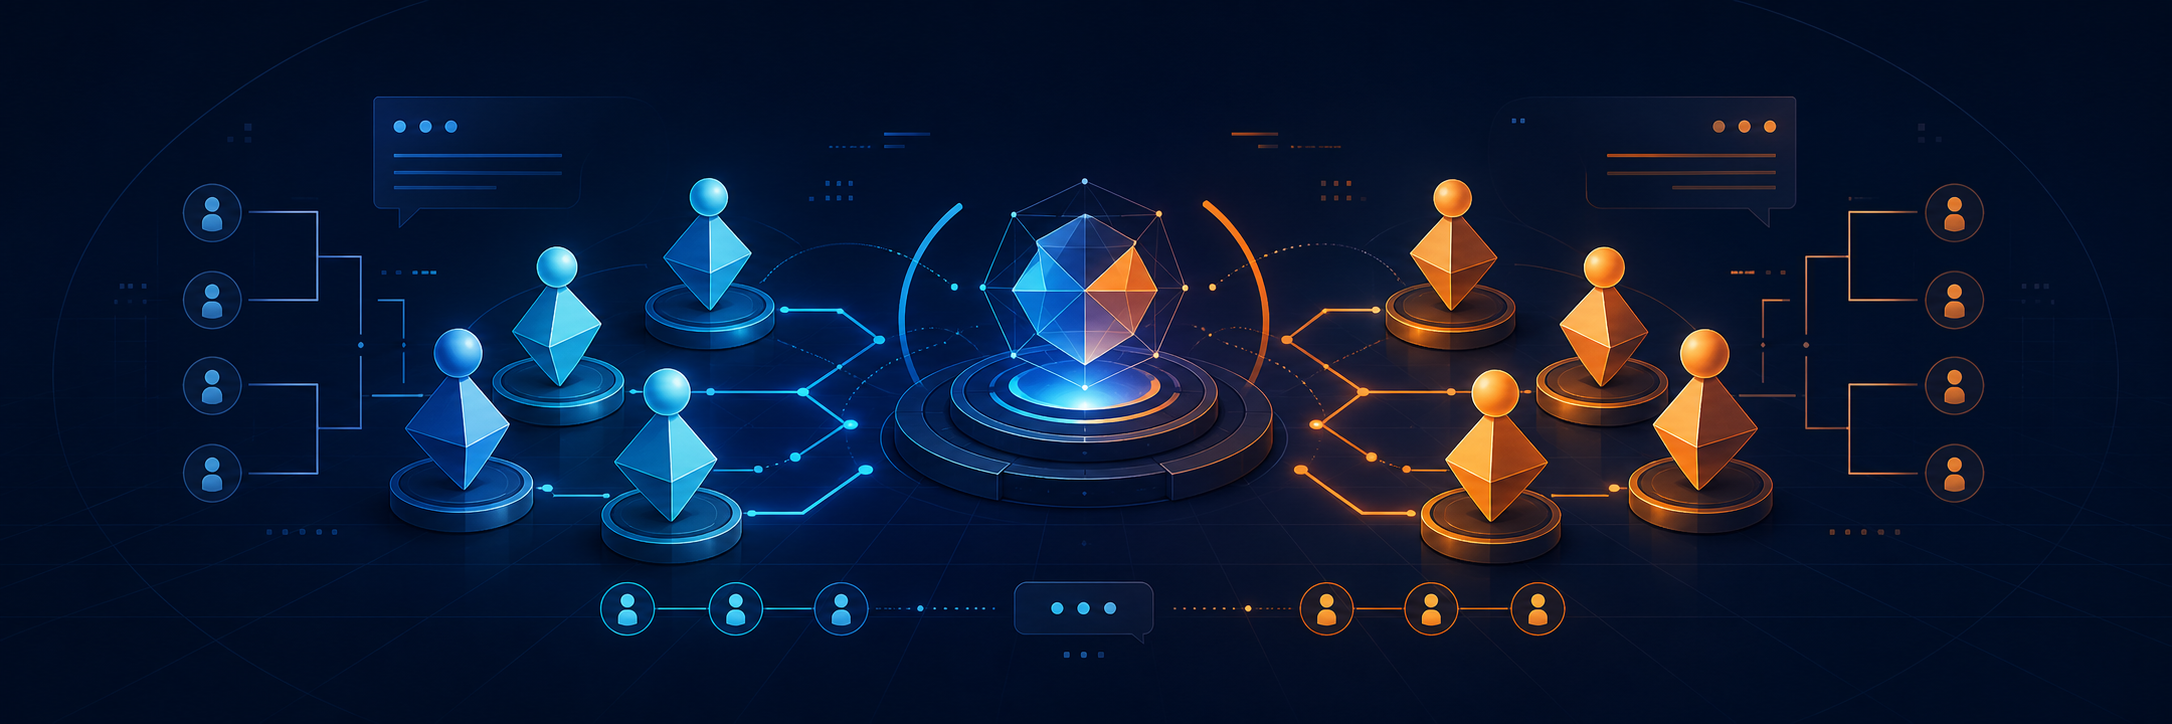
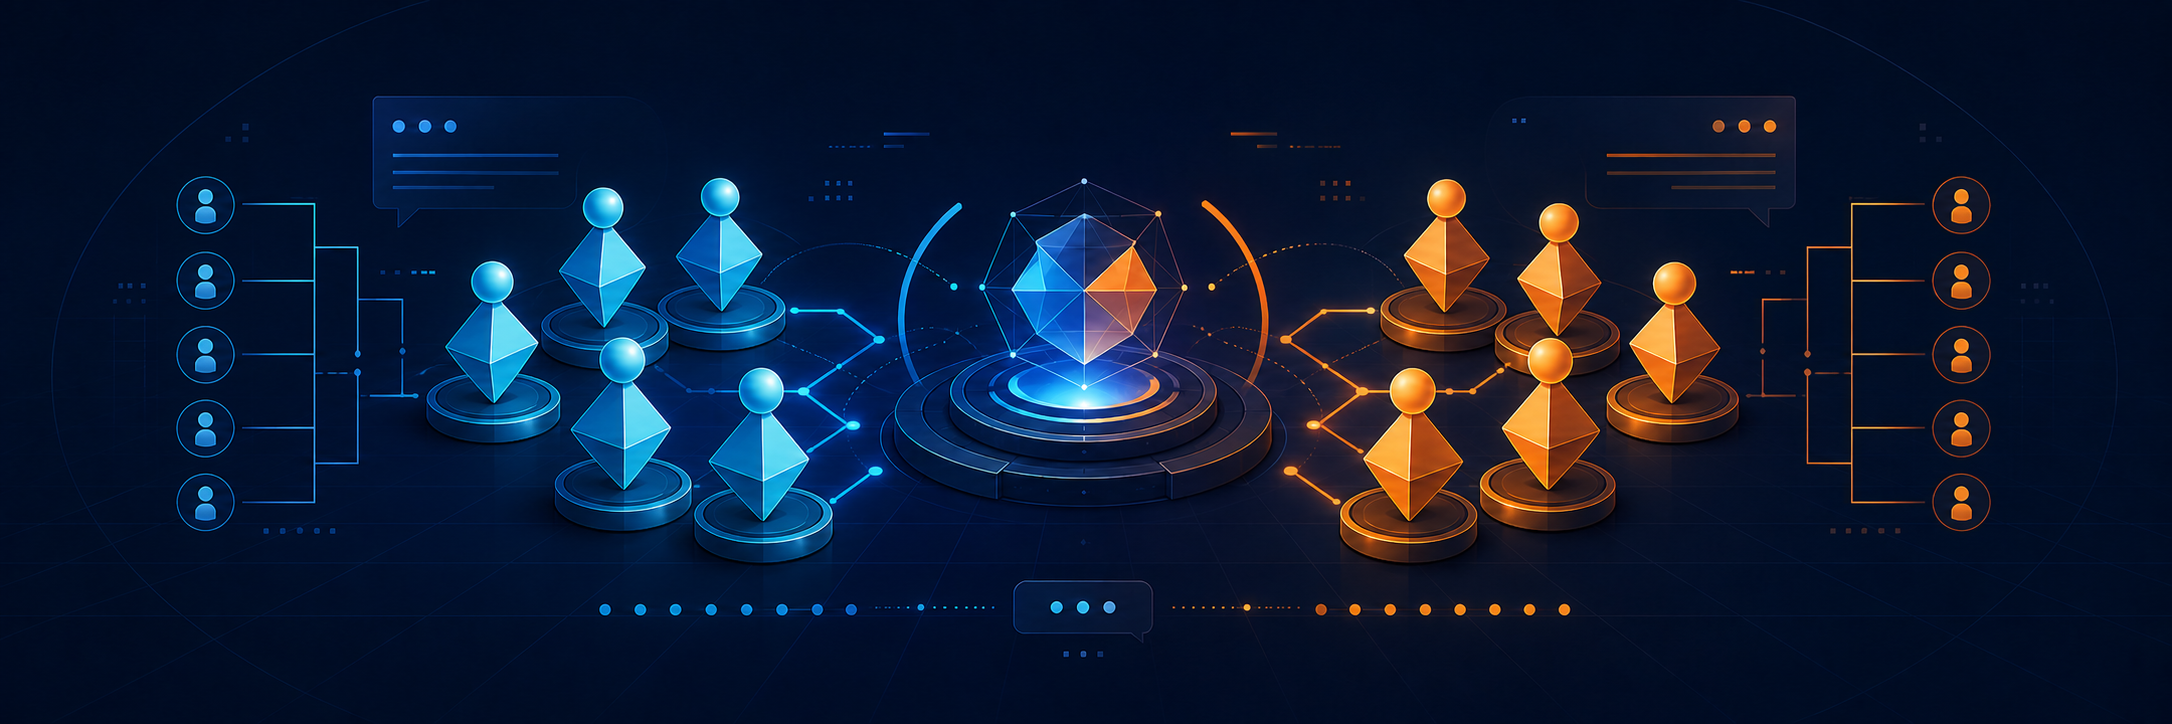
docs: refresh organization profile

diff --git a/profile/README.md b/profile/README.md
@@ -10,35 +10,35 @@
 </p>
 
 <p align="center">
-  <a href="https://github.com/Overwatch-KR/owkr-Internal-balance"><strong>OWKR Match</strong></a>
+  <a href="https://github.com/Overwatch-KR/owkr-Internal-balance"><strong>OWKR Balance</strong></a>
   &nbsp;·&nbsp;
-  <a href="https://github.com/Overwatch-KR/owkr-gather-bot"><strong>OWKR Gather Bot</strong></a>
+  <a href="https://github.com/Overwatch-KR/owkr-gather-bot"><strong>시간을달리는소녀</strong></a>
 </p>
 
 ## 플레이보다 복잡한 운영을 단순하게
 
-내전 하나를 열기 위해서는 참가자를 모으고, 티어를 확인하고, 팀을 나누고,
-대기자를 관리하고, 결과를 공유해야 합니다. OWKR는 이런 반복 작업을 줄여
+내전 하나를 열기 위해서는 참가자를 모으고, 티어를 확인하고, 팀을 나누고,<br />
+대기자를 관리하고, 결과를 공유해야 합니다. OWKR는 이런 반복 작업을 줄여<br />
 운영자는 사람과 경기에 더 집중할 수 있도록 돕습니다.
 
 ## Projects
 
-### <a href="https://github.com/Overwatch-KR/owkr-Internal-balance"><img src="./assets/owkr-match-logo.png" width="36" alt="OWKR Match 로고" /></a> [OWKR Match](https://github.com/Overwatch-KR/owkr-Internal-balance)
+### <a href="https://github.com/Overwatch-KR/owkr-Internal-balance"><img src="./assets/owkr-match-logo.png" width="36" alt="OWKR Balance 로고" /></a> [OWKR Balance](https://github.com/Overwatch-KR/owkr-Internal-balance)
 
 > 참가자 정보부터 균형 잡힌 팀 구성까지 한 화면에서 관리하는 운영진용 웹 도구
 
 `Discord 명단 파싱` · `역할·티어 기반 팀 배정` · `참가자 대조` · `공유 유저 시트` · `결과 이미지`
 
-Discord에서 복사한 참가 명단을 분석하고 역할 선호도와 티어 차이를 고려해 두 팀을 구성합니다.
+Discord에서 복사한 참가 명단을 분석하고 역할 선호도와 티어 차이를 고려해 두 팀을 구성합니다.<br />
 운영진 공유 정보와 개인 메모, 대기열, 수동 교체까지 실제 내전 운영 흐름에 맞춰 제공합니다.
 
-### <a href="https://github.com/Overwatch-KR/owkr-gather-bot"><img src="./assets/owkr-gather-bot-logo.png" width="36" alt="OWKR Gather Bot 로고" /></a> [OWKR Gather Bot](https://github.com/Overwatch-KR/owkr-gather-bot) `개발 중`
+### <a href="https://github.com/Overwatch-KR/owkr-gather-bot"><img src="./assets/owkr-gather-bot-logo.png" width="36" alt="시간을달리는소녀 로고" /></a> [시간을달리는소녀](https://github.com/Overwatch-KR/owkr-gather-bot) `개발 중`
 
 > 모집 공지부터 티어 수집과 대기실 안내까지 이어 주는 Discord 내전 운영 봇
 
 `슬래시 명령어` · `선착순·대기열` · `다중 내전` · `티어 수집` · `재시작 복구`
 
-반응 순서대로 참가자와 대기자를 관리하고 여러 내전을 동시에 운영합니다.
+반응 순서대로 참가자와 대기자를 관리하고 여러 내전을 동시에 운영합니다.<br />
 모집 완료 후 티어 제출을 연결하고, 경기 전 대기실 미입장 안내와 운영 상태 복구까지 담당합니다.
 
 ## 우리가 중요하게 생각하는 것
@@ -49,7 +49,7 @@ Discord에서 복사한 참가 명단을 분석하고 역할 선호도와 티어
 
 ## 함께 만들기
 
-사용 중 불편했던 점이나 필요한 기능이 있다면 각 프로젝트의 Issues에 남겨 주세요.
+사용 중 불편했던 점이나 필요한 기능이 있다면 각 프로젝트의 Issues에 남겨 주세요.<br />
 작은 제안 하나도 다음 내전을 더 매끄럽게 만드는 출발점이 됩니다.
 
 <p align="center">
